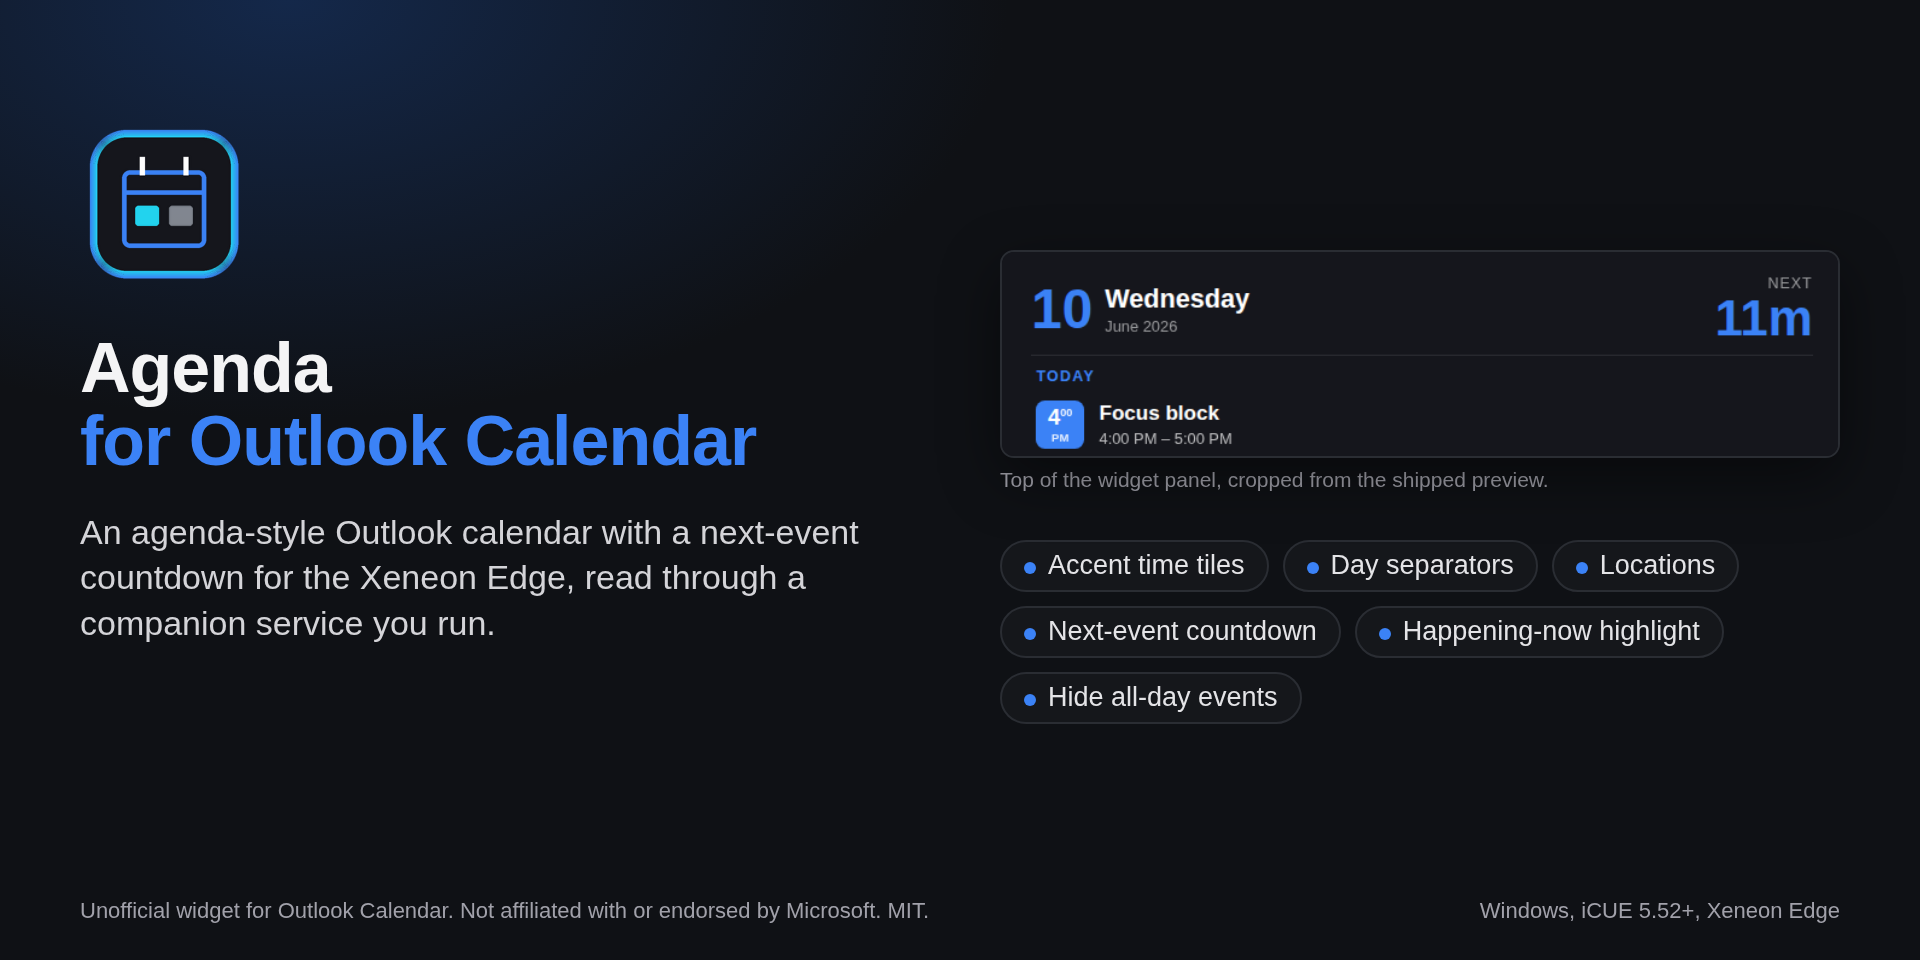
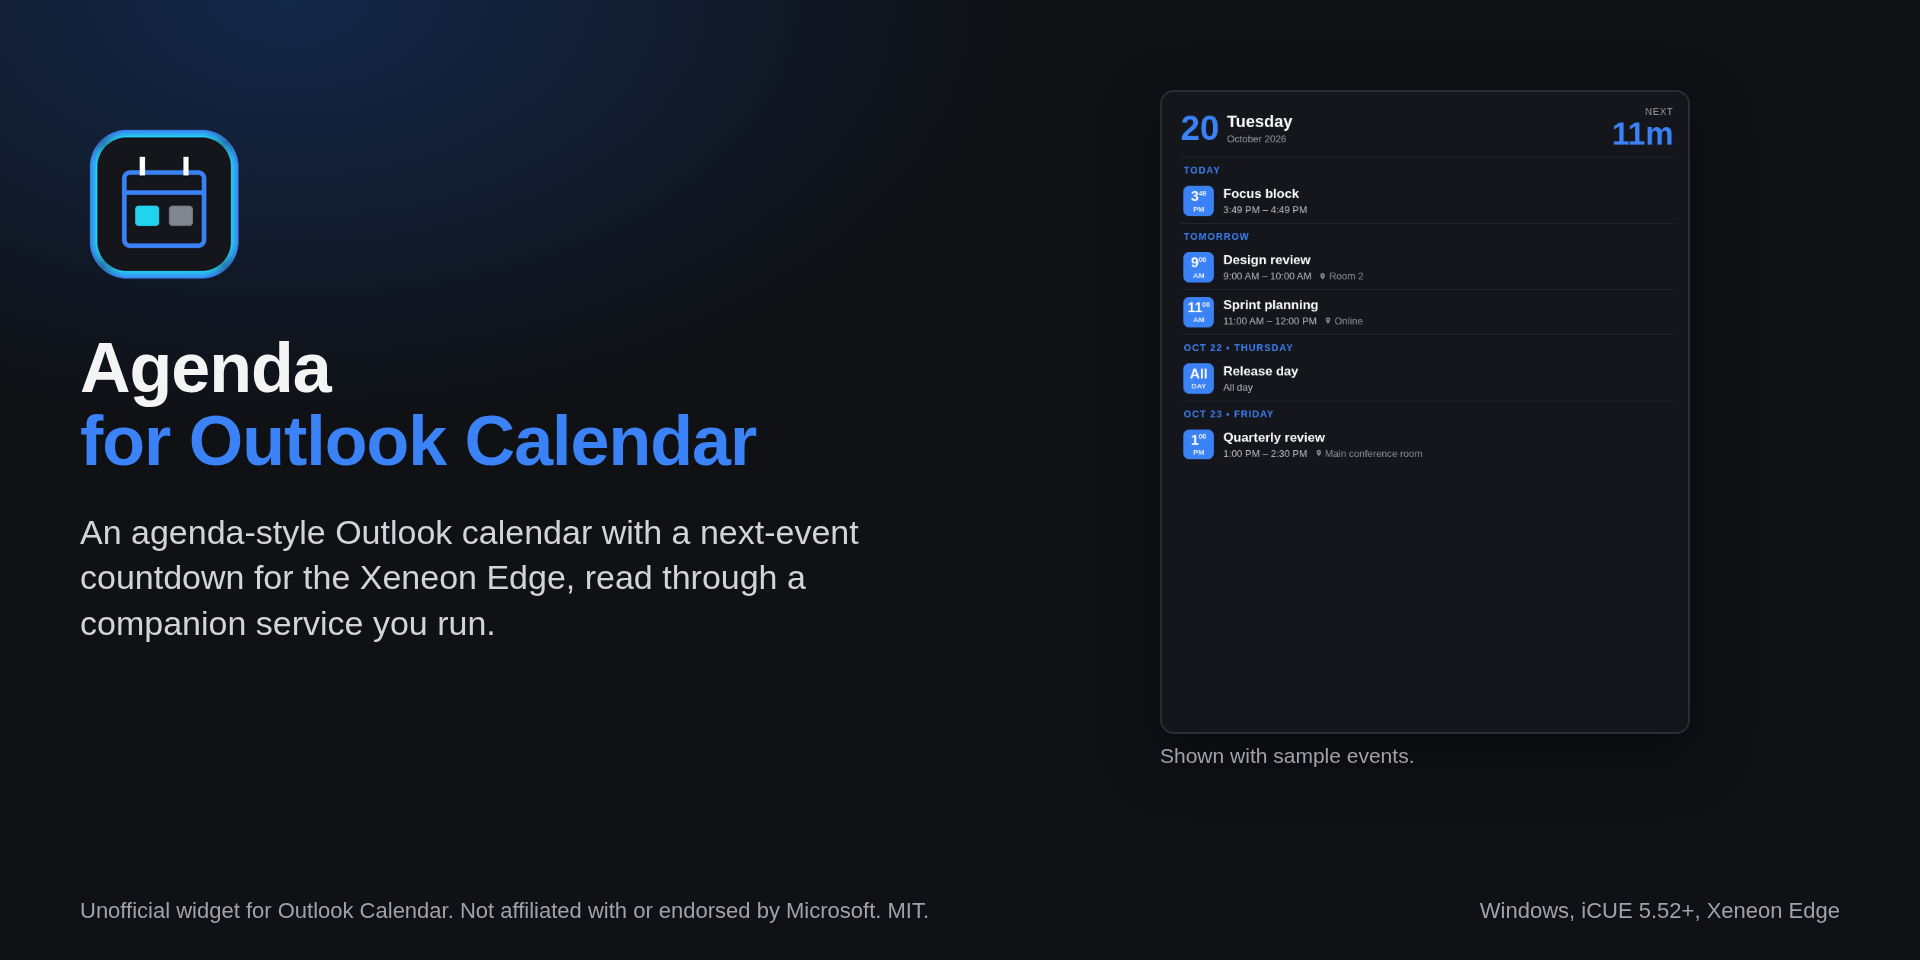
Point the README and listing kit at the published proxy image and 1.0.2

diff --git a/marketplace/src/gallery-01.html b/marketplace/src/gallery-01.html
@@ -8,9 +8,8 @@
   <h1>Agenda<br><span class="accent">for Outlook Calendar</span></h1>
   <p class="sub">An agenda-style Outlook calendar with a next-event countdown for the Xeneon Edge, read through a companion service you run.</p>
 </div>
-<div style="position:absolute; left:1000px; top:250px; width:840px;">
-  <div class="tile" style="width:840px; height:208px; position:relative;"><img src="../../resources/preview.png" style="width:840px; position:absolute; left:0; top:0;"></div>
-  <div class="cap" style="font-size:21px; color:#a1a1aa; margin-top:10px;">Top of the widget panel, cropped from the shipped preview.</div>
-  <div class="pills" style="margin-top:48px;"><span>Accent time tiles</span><span>Day separators</span><span>Locations</span><span>Next-event countdown</span><span>Happening-now highlight</span><span>Hide all-day events</span></div>
+<div style="position:absolute; left:1160px; top:90px; width:530px;">
+  <div class="tile" style="width:530px;"><img src="../../resources/preview.png" style="width:530px; display:block;"></div>
+  <div class="cap" style="font-size:21px; color:#a1a1aa; margin-top:10px;">Shown with sample events.</div>
 </div>
 <div class="foot"><span>Unofficial widget for Outlook Calendar. Not affiliated with or endorsed by Microsoft. MIT.</span><span>Windows, iCUE 5.52+, Xeneon Edge</span></div>

diff --git a/marketplace/listing.md b/marketplace/listing.md
@@ -30,15 +30,17 @@ Gaming, Artistic, Monitoring, Engagement and Social; pick the closest one the co
 
 ## Release notes
 
-Version 1.0.1
+Version 1.0.2
 
+- Replaces the preview image with one rendered from sample data.
+- Packages only the files the widget loads; the preview image, README and this kit stay out of the `.icuewidget`.
 - Declares url network permissions in the manifest (`localhost:8585` and `any`).
 - Sets `min_app_version` to 5.52.
 - Bundles the media viewer inside the widget folder and self-closes the head elements, so the package passes the iCUE widget validator.
 - Replaces personal host defaults with generic ones.
 - Adds a SECURITY policy and a README Install section that points at the GitHub release.
 
-(Condensed from the GitHub release notes for v1.0.1 (`gh release view v1.0.1 -R joshuawowk/icue-widget-outlook-calendar`).)
+(Condensed from the GitHub release notes for v1.0.2 and v1.0.1 (`gh release view v1.0.2 -R joshuawowk/icue-widget-outlook-calendar`).)
 
 ## Requirements
 
@@ -47,7 +49,7 @@ Version 1.0.1
 - A CORSAIR Xeneon Edge (`dashboard_lcd` device).
 - xeneon-graph-proxy (https://github.com/joshuawowk/xeneon-graph-proxy) running and reachable from the PC, by default at `http://localhost:8585`. It is a companion service the user runs; the widget does not talk to Microsoft directly.
 - Calendar data in the proxy, fed either by Microsoft Graph device-code sign-in (if the tenant permits public clients) or by the browser-scrape ingest described in the widget README (a scheduled browser session posts normalized JSON to the proxy's `/ingest/calendar` endpoint).
-- Packaging status of the proxy is a snapshot: the v1.0.1 README says the `ghcr.io` container image was not yet published and the proxy must be built from source with `docker compose up -d --build`. Re-check with `gh release list -R joshuawowk/xeneon-graph-proxy` and the proxy README before submitting, and update this listing if the image is now published.
+- The proxy ships as a container image: `docker pull ghcr.io/joshuawowk/xeneon-graph-proxy:0.1.0` (linux/amd64, linux/arm64). See the proxy README for setup.
 
 ## Network permissions
 
@@ -66,14 +68,14 @@ MIT, see `LICENSE` in the repository root. Source: https://github.com/joshuawowk
 - Submission route unverified. Elgato's become-a-maker page lists Stream Deck, Wave Link, OBS and 3D as self-serve Maker
   Console categories but does not list iCUE widgets. If the console has no iCUE widget option, the fallback is the
   maker@elgato.com "New Product Submission" email route.
-- File to upload: `outlook-calendar.icuewidget`, the `.icuewidget` attached to GitHub release v1.0.1:
-  https://github.com/joshuawowk/icue-widget-outlook-calendar/releases/download/v1.0.1/outlook-calendar.icuewidget
+- File to upload: `outlook-calendar.icuewidget`, the `.icuewidget` attached to GitHub release v1.0.2:
+  https://github.com/joshuawowk/icue-widget-outlook-calendar/releases/download/v1.0.2/outlook-calendar.icuewidget
   Download it from the release; do not zip the folder by hand. To rebuild it, use `npm run package` (needs
   `npm install -g icuewidget-cli`).
-- Manifest version is 1.0.1 and the file above matches release v1.0.1. If you submit a later release, update the
+- Manifest version is 1.0.2 and the file above matches release v1.0.2. If you submit a later release, update the
   version, release notes and file name in this kit first.
 - Listing icon: `resources/icon.png` is 256x256 and was upscaled to 288x288 with ImageMagick (`convert resources/icon.png -resize 288x288!`), so it is slightly soft; re-export `resources/icon.svg` at 288 for a sharper icon if needed.
-- Packaging caveat: `npm run package` runs `icuewidget package .` on the repository root, which zips every non-hidden file. A `marketplace/` folder would therefore be swept into future `.icuewidget` builds (about 0.8 MB of PNGs and HTML). Nothing in this kit changes the package script; stage the widget files or exclude `marketplace/` before the next release build.
+- Packaging: `npm run package` (tools/package.js) stages only the files the widget loads, so `marketplace/`, the README and `resources/preview.png` stay out of the `.icuewidget`.
 - Validator note: `icuewidget validate` (CLI 0.5.0, run in October 2026 on the unzipped local `dist/` build of that version) passes with one warning that the `any` url permission grants access to every external host. The permission is intentional because the host is user-entered; expect reviewers to ask about it and point them at the Network permissions section.
 - Not tested on hardware: the kit was written without Windows, iCUE or a Xeneon Edge. Gallery slides show the shipped preview and text only; no screenshot was taken from a running panel.
 
@@ -82,11 +84,11 @@ MIT, see `LICENSE` in the repository root. Source: https://github.com/joshuawowk
 | File | Size | Use |
 | --- | --- | --- |
 | `listing-icon-288.png` | 288x288 | Product icon |
-| `gallery-01.png` | 1920x960 | Overview: product name and a crop of the widget header and first agenda item from `resources/preview.png` |
+| `gallery-01.png` | 1920x960 | Overview: product name and the full widget preview (`resources/preview.png`, rendered from sample data) |
 | `gallery-02.png` | 1920x960 | Feature cards: day grouping, countdown, busy marker, all-day filter, offline, sizing |
 | `gallery-03.png` | 1920x960 | Widget, xeneon-graph-proxy and the calendar source, setup steps and network permission |
 
-`resources/preview.png` is NOT used in full. Its lower rows contain what look like real calendar entries (including a work project name), and the gallery images must carry no real calendar content, so slide 1 uses only a crop of the header and the first generic agenda item ("Focus block") and the other slides are built from the feature list. `resources/preview.png` is also shipped inside the released `.icuewidget`; consider regenerating it from sample data.
+`resources/preview.png` was regenerated from sample data against a mock proxy on 2026-10-20 (the earlier image showed real entries). It is not part of the packaged widget.
 `marketplace/src/` holds the HTML sources and `marketplace/build.sh` re-renders the gallery PNGs with
 headless Chromium.
 

diff --git a/README.md b/README.md
@@ -13,7 +13,7 @@ An agenda-style Outlook calendar for the CORSAIR Xeneon Edge: dark theme, accent
 > docker run -d --name xeneon-graph-proxy --restart unless-stopped -p 8585:8585 -v xeneon-graph-proxy-data:/data ghcr.io/joshuawowk/xeneon-graph-proxy:latest
 > ```
 >
-> The `ghcr.io` image is not published yet at the time of writing. Until it is, build it from source with `docker compose up -d --build` as described in the [proxy README](https://github.com/joshuawowk/xeneon-graph-proxy#quick-start-docker). Then start sign-in once with `curl -X POST http://localhost:8585/auth/start` and follow the printed instructions.
+> Run the proxy from its published image, `ghcr.io/joshuawowk/xeneon-graph-proxy` (linux/amd64, linux/arm64); the [proxy README](https://github.com/joshuawowk/xeneon-graph-proxy#quick-start-docker) has the full `docker run` and compose setup. Then start sign-in once with `curl -X POST http://localhost:8585/auth/start` and follow the printed instructions.
 
 Microsoft Graph has no static API keys, so this widget pairs with **[xeneon-graph-proxy](https://github.com/joshuawowk/xeneon-graph-proxy)**. The proxy can be fed two ways:
 
